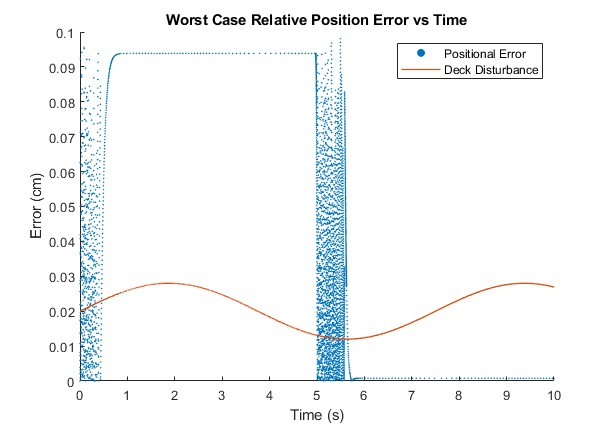
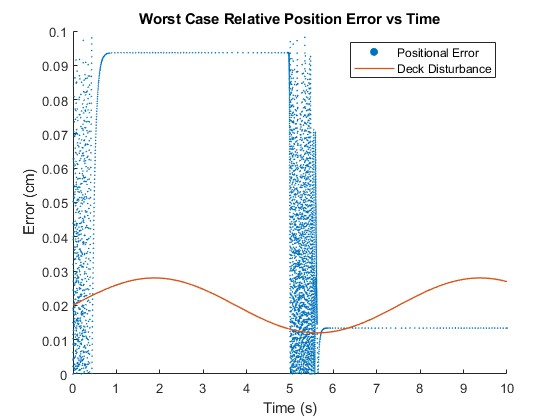
Manual integration behaving weird.

diff --git a/controlSystemsTesting.m b/controlSystemsTesting.m
@@ -86,10 +86,32 @@ ylabel('Drift (m/s^-2)')
 title('Vertical Accelerometer Signal vs Time')
 %% Running simulations
 
-tolerance = 5e-6;
+% --------------------- Running no error simulation -----------------------
+
+% tstep = 1/60;
+% startTime = 0;
+% finishTime = 10;
+% t = startTime:tstep:finishTime;
+% s = zeros(length(t), length(s0));
+% 
+% s(1,:) = noError(t(1),s0,a);
+% sStep = s(1,:).*tstep+s0;
+% s(2,:) = noError(t(2),sStep,a);
+% 
+% for i = 2:length(t)
+%     time = t(i);
+%     sStep = s(i,:).*tstep+s(i-1,:);
+%     s(i+1,:) = noError(t(i),sStep,a);
+% end
+
+tolerance = 6e-6;
 % Running Simulation
 op = odeset('RelTol',tolerance,'AbsTol',tolerance); % Tolerance options
 [t_reg, s_reg] = ode23s(@(t,s)noError(t,s,a),tspan,s0,op);
+
+
+
+% --------------------- Running with error simulation ---------------------
 
 s0 = [p0; p_dot0; pr_err_accum0; pm0; pm_dot; pm_ddot; p_theta0];
 
